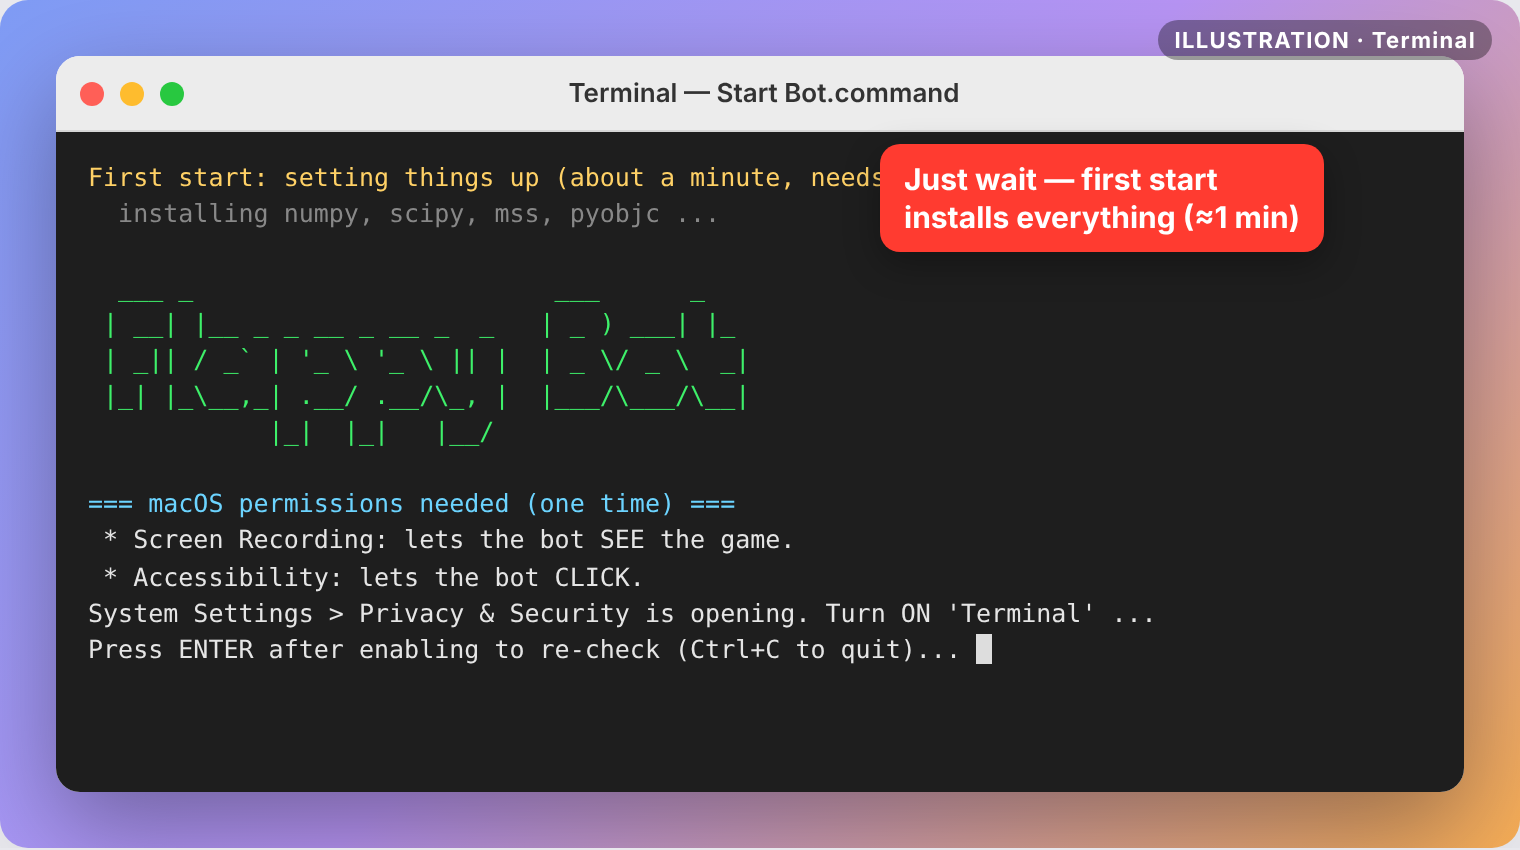
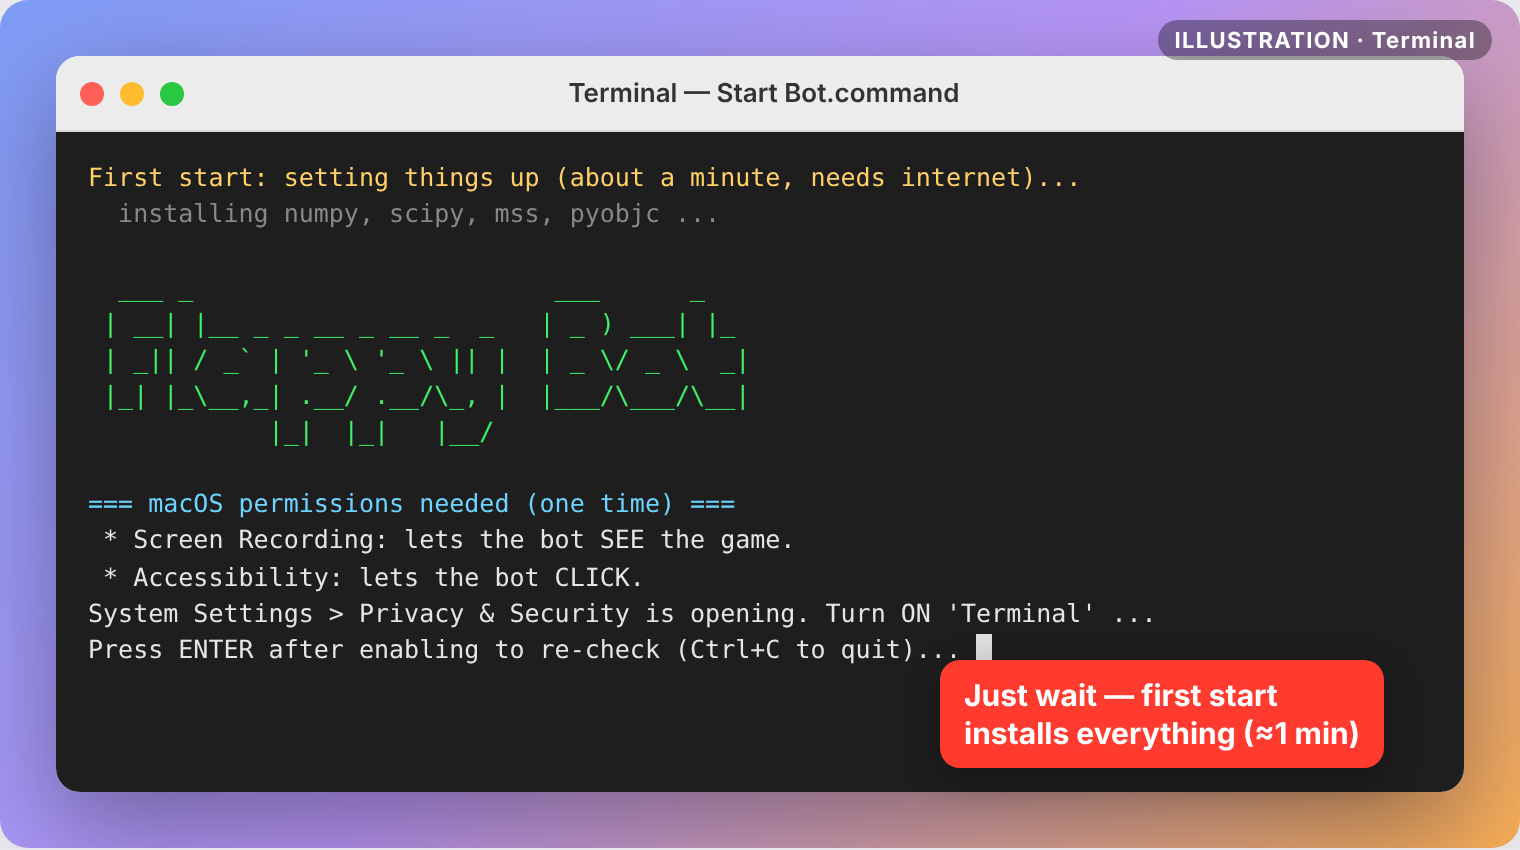
Tutorial images: move callouts off terminal text, readable legend
Claude-Session: https://claude.ai/code/session_01PZTeHit8RgxNXBj63ptAjJ

Changed region(s): [[0.5566, 0.1529, 0.8967, 0.3059], [0.6184, 0.7647, 0.9276, 0.9176]]

diff --git a/docs/tutorial-src/mockups.html b/docs/tutorial-src/mockups.html
@@ -69,7 +69,7 @@
   .game img { width:100%; height:100%; display:block; }
   .cursor { position:absolute; width:26px; height:26px; }
   .sel-rect { position:absolute; border:3px dashed #ffeb3b; }
-  .legend { display:flex; gap:16px; justify-content:center; margin-top:14px; font-size:13px; color:#fff; font-weight:600; flex-wrap:wrap; }
+  .legend { background:rgba(0,0,0,.65); border-radius:10px; padding:8px 12px; display:flex; gap:16px; justify-content:center; margin-top:14px; font-size:13px; color:#fff; font-weight:600; flex-wrap:wrap; }
   .legend span::before { content:""; display:inline-block; width:14px; height:14px; border:3px solid currentColor; margin-right:6px; vertical-align:-3px; border-radius:2px; }
 </style></head>
 <body>
@@ -172,7 +172,7 @@
 System Settings &gt; Privacy &amp; Security is opening. Turn ON 'Terminal' ...
 Press ENTER after enabling to re-check (Ctrl+C to quit)... <span style="background:#ddd">&nbsp;</span></div>
   </div>
-  <div class="callout" style="left:440px;top:72px">Just wait — first start<br>installs everything (≈1 min)</div>
+  <div class="callout" style="left:470px;top:330px">Just wait — first start<br>installs everything (≈1 min)</div>
 </div>
 
 <!-- 4: Screen recording -->
@@ -260,7 +260,7 @@ Press ENTER after enabling to re-check (Ctrl+C to quit)... <span style="backgrou
   <div class="tag">ILLUSTRATION · Terminal</div>
   <div class="win">
     <div class="bar"><span class="dot r"></span><span class="dot y"></span><span class="dot g"></span><span class="title">Terminal — Start Bot.command</span></div>
-    <div class="tbody" style="height:250px">Use saved game area 1280x958 at (0,87)? [Y/n] <span class="gr">⏎</span>
+    <div class="tbody" style="height:330px">Use saved game area 1280x958 at (0,87)? [Y/n] <span class="gr">⏎</span>
 
 First look at the game: bird=YES  pillars=4  money=1  flags=1  shield=0
 
@@ -272,7 +272,7 @@ First look at the game: bird=YES  pillars=4  money=1  flags=1  shield=0
 <span class="gr">PLAYING</span>          fps=  52 taps=  418  bird=YES  pillars=3  money=1  flags=1  shield=0
                  g=2.31 jump=-0.71 lag=44ms speed=0.42</div>
   </div>
-  <div class="callout" style="left:380px;top:60px">Mouse INSIDE game = play<br>Mouse OUTSIDE = pause<br>Ctrl + C = quit</div>
+  <div class="callout" style="left:470px;top:310px">Mouse INSIDE game = play<br>Mouse OUTSIDE = pause<br>Ctrl + C = quit</div>
 </div>
 
 <!-- 8: what the bot sees -->
